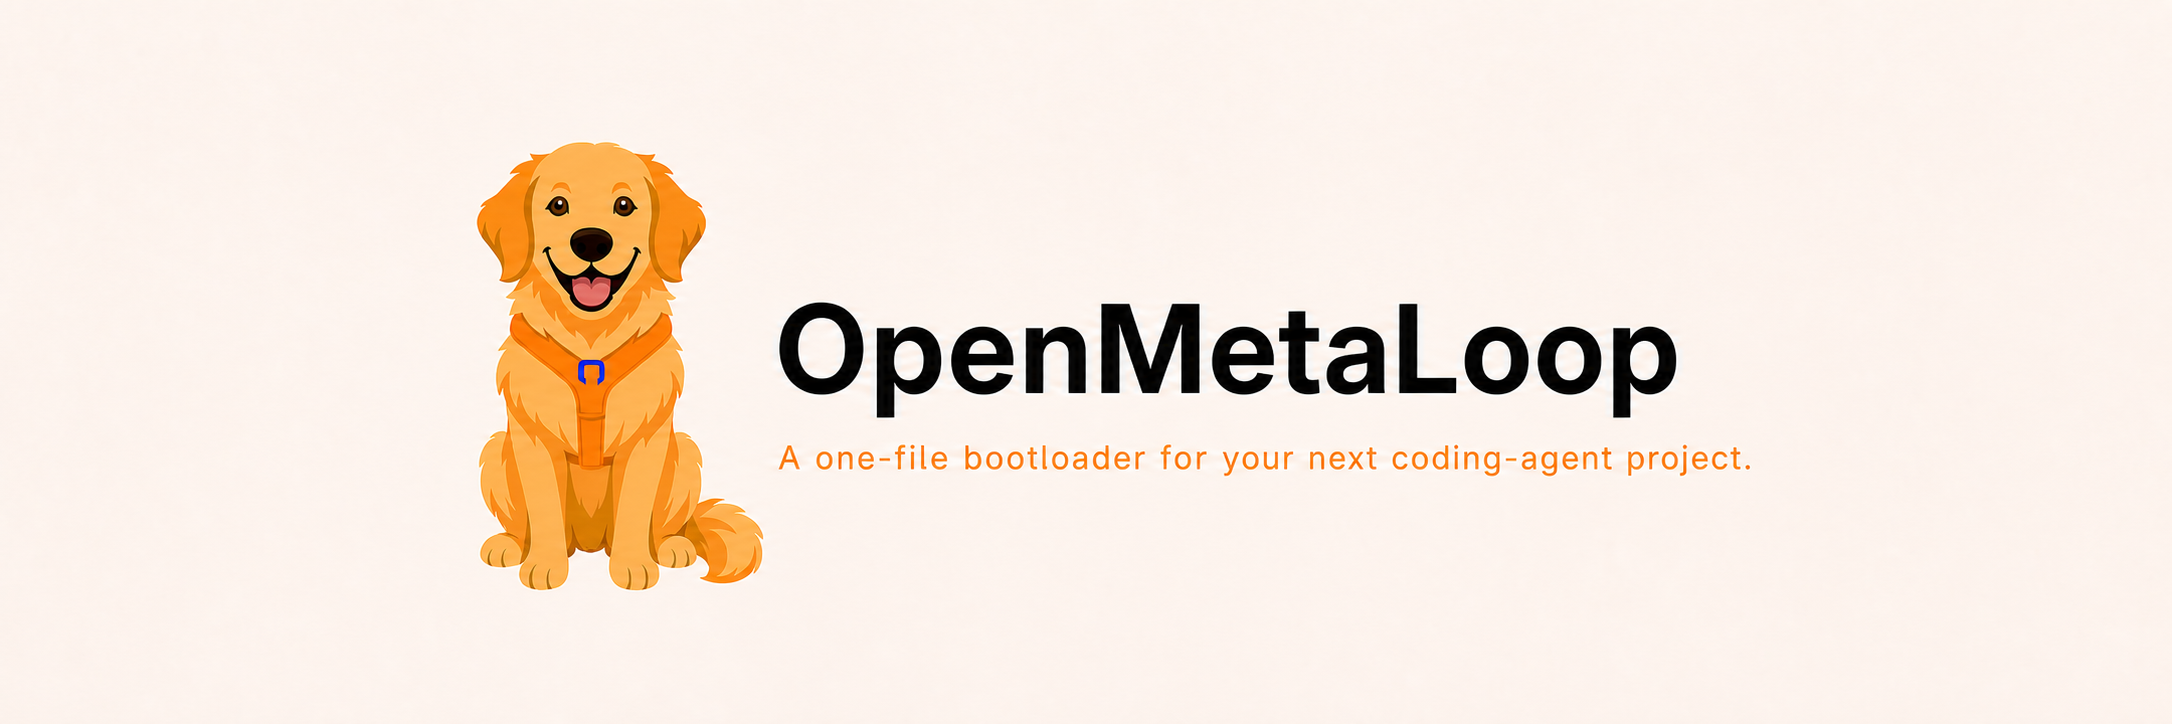
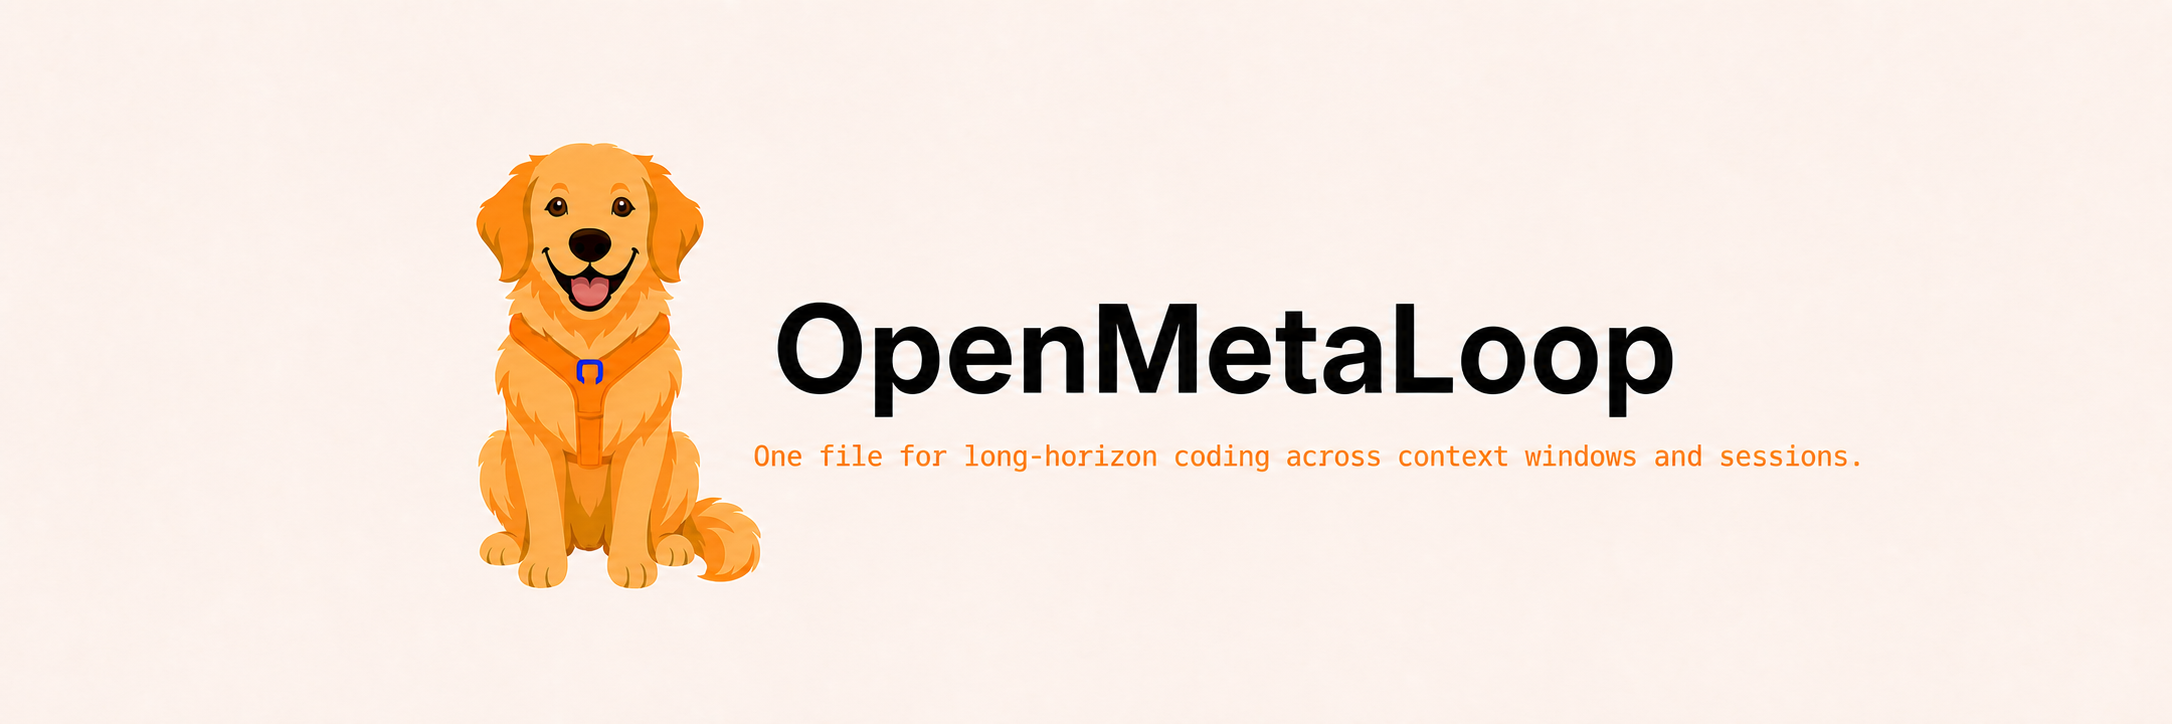
Clarify long-horizon coding positioning

diff --git a/README.md b/README.md
@@ -1,20 +1,20 @@
-# 🐶 OpenMetaLoop: A one-file bootloader for your next coding-agent project
+# 🐶 OpenMetaLoop: One file for long-horizon coding across context windows and sessions.
 
 <p align="center">
   <img
     src="banner.png"
-    alt="OpenMetaLoop: A one-file bootloader for your next coding-agent project."
+    alt="OpenMetaLoop: One file for long-horizon coding across context windows and sessions."
     width="100%"
   >
 </p>
 
-Coding agents have become highly capable, but they can be unreliable on long-horizon,
-evolving projects that unfold across many context windows.
+Coding agents are highly capable inside a single context window. OpenMetaLoop gives
+them one portable file for carrying a long-horizon coding project across context
+windows and sessions.
 
-OpenMetaLoop is a cognitive architecture that enables coding agents to develop and
-execute on a long-horizon project vision from 0 to 1 with minimal human
-intervention and maximum token efficiency across multiple sessions and context
-windows.
+The file bootstraps the goals, memory, planning, verification, and handoff structure a
+coding agent needs to keep executing a project from 0 to 1 with minimal human
+intervention and efficient use of context.
 
 You will be able to direct a persistent engineering operation whose memory, judgment,
 and discipline compound with the project. As the project accumulates verified

diff --git a/openmetaloop.md b/openmetaloop.md
@@ -1,6 +1,6 @@
 # OpenMetaLoop Bootloader
 
-*The one-file bootloader for persistent, self-adaptive project agents.*
+*One file for long-horizon coding across context windows and sessions.*
 
 This file is the complete portable loop bootloader, including the protocol and every
 template it installs.
